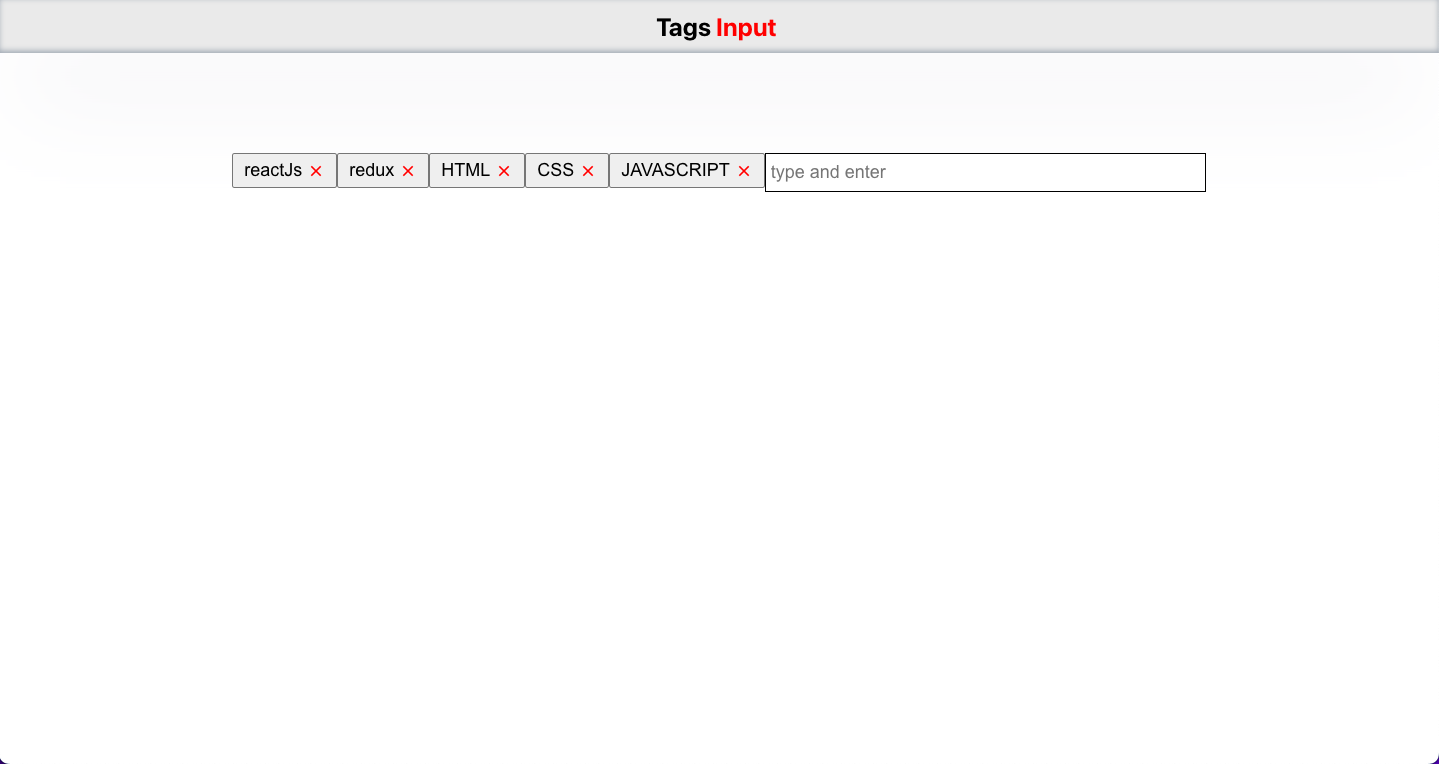
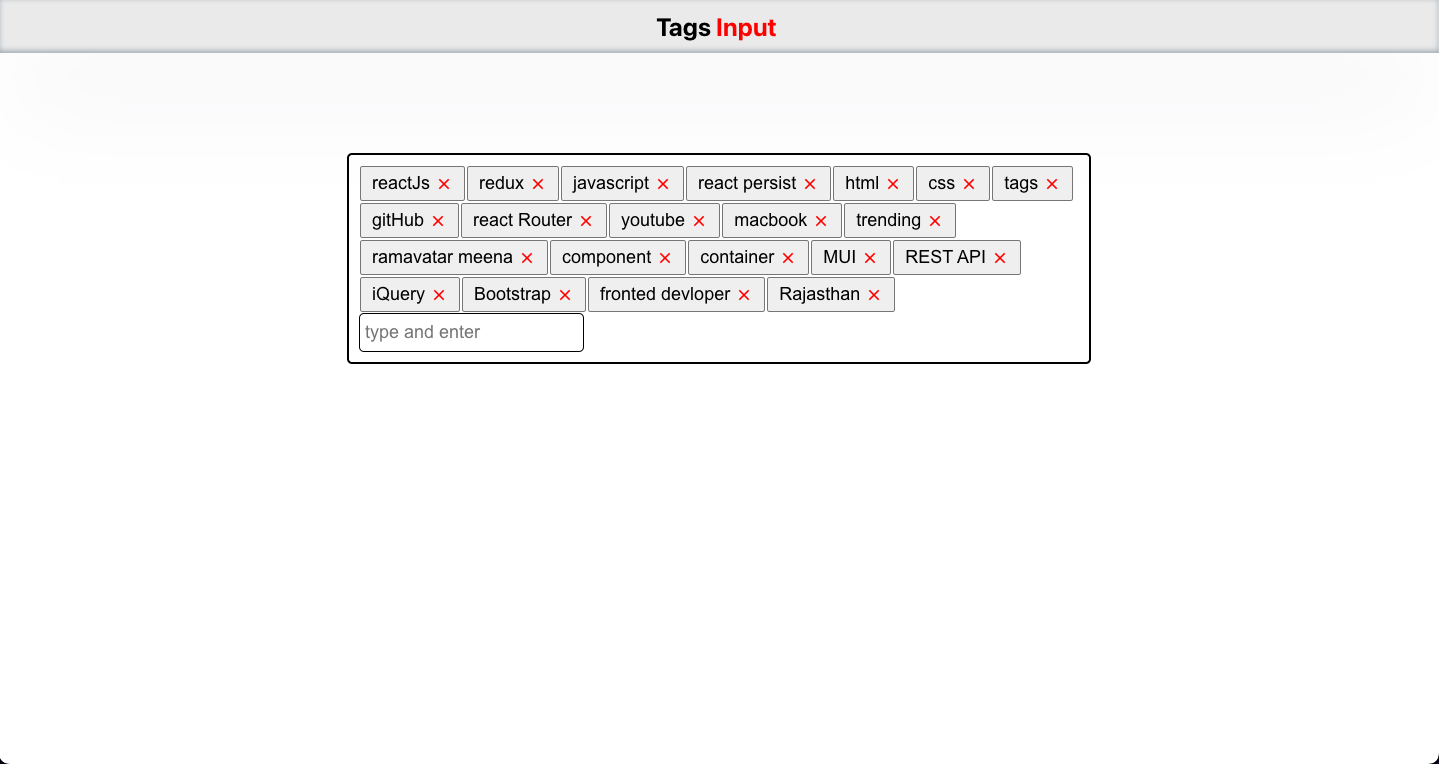
readme file add

Changed region(s): [[0.1529, 0.2107, 0.7644, 0.4817], [0.9785, 0.9935, 1.0, 1.0], [0.7338, 0.4516, 0.7644, 0.4817]]

diff --git a/src/Components/MainHome.js b/src/Components/MainHome.js
@@ -23,7 +23,8 @@ export default function MainHome() {
   };
   return (
     <Main>
-      {tags.map((item, index) => {
+ <DivMain>
+ {tags.map((item, index) => {
         return (
           <Button key={index}>
             {item}
@@ -39,6 +40,7 @@ export default function MainHome() {
         onChange={(e) => onChange(e)}
         onKeyDown={addTags}
       />
+ </DivMain>
     </Main>
   );
 }
@@ -51,10 +53,21 @@ const Main = styled.div`
   justify-content: center;
   padding-top: 100px;
 `;
+const DivMain = styled.div`
+  width: 50%;
+  height: auto;
+  padding:10px;
+  display: flex;
+  flex-wrap: wrap;
+  border:2px solid black;
+  border-radius:5px;
+`;
+
 
 const Button = styled.button`
   width: auto;
   height: 35px;
+  margin:1px;
   padding: 0px 10px;
   font-size: 18px;
   display: flex;
@@ -68,6 +81,8 @@ const Input = styled.input`
   border: 1px solid black;
   font-size: 18px;
   padding-left: 5px;
+  border-radius:5px;
+
 `;
 
 const Span = styled.span`
